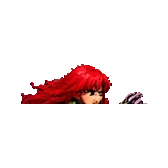
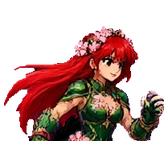
Hana: visual reformulado substitui o antigo
Folhas novas (Hana reformulada.jpg + hana rrefortmulada 2.jpg, 16
figuras, toda virada pra direita — zero flips) substituem as antigas
(Hana sprites.jpg de 28 figuras com linhas grudadas). Mapeamento novo:
- folha1: idle/andar/pulo/soco | agachar/chute/tiro/block
- folha2: andar/idle/pulo-ar/vitoria | garra/agachar/KO-deitado/block
- idle e walk alternam 2 quadros (animada), punch mistura soco+garra,
  block alterna as duas guardas, KO deitado real
Atlas de habilidades mantido (o dono mandou so poses).

Verificacao: audit das 15 poses ALL OK, ancoragem OK nas 60 celulas,
em jogo completa/limpa/uma figura/pe no chao (medido por pixel),
kit revalidado (H3 puxa pra 78px, ult cura/buff sem dano).
Cache-buster: v16-odette -> v16b-hana.
Testes: combat/v7/v10/v11/online-server/sprite_audit verdes.

diff --git a/index.html b/index.html
@@ -22,9 +22,9 @@
     })().catch((error) => console.warn('Cache cleanup failed:', error));
   </script>
   <link rel="icon" type="image/png" href="assets/share/favicon.png" />
-  <link rel="stylesheet" href="css/style.css?v=v16-odette" />
-  <link rel="stylesheet" href="css/account.css?v=v16-odette" />
-  <link rel="stylesheet" href="css/mobile.css?v=v16-odette" />
+  <link rel="stylesheet" href="css/style.css?v=v16b-hana" />
+  <link rel="stylesheet" href="css/account.css?v=v16b-hana" />
+  <link rel="stylesheet" href="css/mobile.css?v=v16b-hana" />
 </head>
 <body>
   <div id="loader" role="status" aria-live="polite">
@@ -367,7 +367,7 @@
     </div>
   </div>
 
-  <script src="assets/sprites/layout.js?v=v16-odette"></script>
+  <script src="assets/sprites/layout.js?v=v16b-hana"></script>
   <script>
     /* Blindagem contra layout.js velho em cache: os arquivos de dados
        (fighters-v7..v11) escrevem em SPRITE_LAYOUT.files / .perFighter,
@@ -391,54 +391,54 @@
       }
     })();
   </script>
-  <script src="assets/stages/sheets.js?v=v16-odette"></script>
-  <script src="assets/maps/anim.js?v=v16-odette"></script>
-  <script src="js/core/profile.js?v=v16-odette"></script>
-  <script src="js/config/firebase-config.js?v=v16-odette"></script>
-  <script src="js/core/cloud.js?v=v16-odette"></script>
-  <script src="js/config/supabase-config.js?v=v16-odette"></script>
+  <script src="assets/stages/sheets.js?v=v16b-hana"></script>
+  <script src="assets/maps/anim.js?v=v16b-hana"></script>
+  <script src="js/core/profile.js?v=v16b-hana"></script>
+  <script src="js/config/firebase-config.js?v=v16b-hana"></script>
+  <script src="js/core/cloud.js?v=v16b-hana"></script>
+  <script src="js/config/supabase-config.js?v=v16b-hana"></script>
   <script src="js/vendor/supabase-2.118.0.js"></script>
-  <script src="js/core/supabase-cloud.js?v=v16-odette"></script>
-  <script src="js/data/fighters.js?v=v16-odette"></script>
-  <script src="js/data/fighters-v10.js?v=v16-odette"></script>
-  <script src="js/data/fighters-v11.js?v=v16-odette"></script>
-  <script src="js/data/powers.js?v=v16-odette"></script>
-  <script src="js/data/powers-turbo.js?v=v16-odette"></script>
-  <script src="js/data/powers-v4.js?v=v16-odette"></script>
-  <script src="js/data/powers-v5.js?v=v16-odette"></script>
-  <script src="js/data/powers-v6.js?v=v16-odette"></script>
-  <script src="js/data/powers-balance-v6.js?v=v16-odette"></script>
-  <script src="js/data/powers-v7.js?v=v16-odette"></script>
-  <script src="js/data/powers-v8.js?v=v16-odette"></script>
-  <script src="js/data/powers-v9.js?v=v16-odette"></script>
-  <script src="js/data/powers-v10.js?v=v16-odette"></script>
-  <script src="js/data/powers-v11.js?v=v16-odette"></script>
-    <script src="js/data/fighters-v12.js?v=v16-odette"></script>
-    <script src="js/data/fighters-v13.js?v=v16-odette"></script>
-    <script src="js/data/fighters-v14.js?v=v16-odette"></script>
-    <script src="js/data/fighters-v15.js?v=v16-odette"></script>
-    <script src="js/data/fighters-v16.js?v=v16-odette"></script>
-  <script src="js/data/pets.js?v=v16-odette"></script>
-  <script src="js/data/stages.js?v=v16-odette"></script>
-  <script src="js/engine/sprites.js?v=v16-odette"></script>
-  <script src="js/engine/fx.js?v=v16-odette"></script>
-  <script src="js/engine/audio.js?v=v16-odette"></script>
-  <script src="js/engine/input.js?v=v16-odette"></script>
-  <script src="js/ui/viewport.js?v=v16-odette"></script>
-  <script src="js/engine/projectile.js?v=v16-odette"></script>
-  <script src="js/engine/fighter.js?v=v16-odette"></script>
-  <script src="js/engine/weather.js?v=v16-odette"></script>
-  <script src="js/engine/mechanics.js?v=v16-odette"></script>
-  <script src="js/engine/stage.js?v=v16-odette"></script>
-  <script src="js/engine/ai.js?v=v16-odette"></script>
-  <script src="js/engine/game.js?v=v16-odette"></script>
+  <script src="js/core/supabase-cloud.js?v=v16b-hana"></script>
+  <script src="js/data/fighters.js?v=v16b-hana"></script>
+  <script src="js/data/fighters-v10.js?v=v16b-hana"></script>
+  <script src="js/data/fighters-v11.js?v=v16b-hana"></script>
+  <script src="js/data/powers.js?v=v16b-hana"></script>
+  <script src="js/data/powers-turbo.js?v=v16b-hana"></script>
+  <script src="js/data/powers-v4.js?v=v16b-hana"></script>
+  <script src="js/data/powers-v5.js?v=v16b-hana"></script>
+  <script src="js/data/powers-v6.js?v=v16b-hana"></script>
+  <script src="js/data/powers-balance-v6.js?v=v16b-hana"></script>
+  <script src="js/data/powers-v7.js?v=v16b-hana"></script>
+  <script src="js/data/powers-v8.js?v=v16b-hana"></script>
+  <script src="js/data/powers-v9.js?v=v16b-hana"></script>
+  <script src="js/data/powers-v10.js?v=v16b-hana"></script>
+  <script src="js/data/powers-v11.js?v=v16b-hana"></script>
+    <script src="js/data/fighters-v12.js?v=v16b-hana"></script>
+    <script src="js/data/fighters-v13.js?v=v16b-hana"></script>
+    <script src="js/data/fighters-v14.js?v=v16b-hana"></script>
+    <script src="js/data/fighters-v15.js?v=v16b-hana"></script>
+    <script src="js/data/fighters-v16.js?v=v16b-hana"></script>
+  <script src="js/data/pets.js?v=v16b-hana"></script>
+  <script src="js/data/stages.js?v=v16b-hana"></script>
+  <script src="js/engine/sprites.js?v=v16b-hana"></script>
+  <script src="js/engine/fx.js?v=v16b-hana"></script>
+  <script src="js/engine/audio.js?v=v16b-hana"></script>
+  <script src="js/engine/input.js?v=v16b-hana"></script>
+  <script src="js/ui/viewport.js?v=v16b-hana"></script>
+  <script src="js/engine/projectile.js?v=v16b-hana"></script>
+  <script src="js/engine/fighter.js?v=v16b-hana"></script>
+  <script src="js/engine/weather.js?v=v16b-hana"></script>
+  <script src="js/engine/mechanics.js?v=v16b-hana"></script>
+  <script src="js/engine/stage.js?v=v16b-hana"></script>
+  <script src="js/engine/ai.js?v=v16b-hana"></script>
+  <script src="js/engine/game.js?v=v16b-hana"></script>
   <script src="js/vendor/peerjs.min.js"></script>
-  <script src="js/net/room-core.js?v=v16-odette"></script>
-  <script src="js/net/online.js?v=v16-odette"></script>
-  <script src="js/ui/hud.js?v=v16-odette"></script>
-  <script src="js/ui/ui.js?v=v16-odette"></script>
-  <script src="js/ui/account.js?v=v16-odette"></script>
-  <script src="js/main.js?v=v16-odette"></script>
-  <script src="js/net/tournament.js?v=v16-odette"></script>
+  <script src="js/net/room-core.js?v=v16b-hana"></script>
+  <script src="js/net/online.js?v=v16b-hana"></script>
+  <script src="js/ui/hud.js?v=v16b-hana"></script>
+  <script src="js/ui/ui.js?v=v16b-hana"></script>
+  <script src="js/ui/account.js?v=v16b-hana"></script>
+  <script src="js/main.js?v=v16b-hana"></script>
+  <script src="js/net/tournament.js?v=v16b-hana"></script>
 </body>
 </html>

diff --git a/js/engine/sprites.js b/js/engine/sprites.js
@@ -26,8 +26,8 @@ const SpriteGen = {
   url(id) {
     const src = (SPRITE_LAYOUT.files || {})[id] || 'assets/sprites/' + id + '.png';
     // v=... serve pra invalidar cache: SEMPRE bump quando o PNG mudar.
-    // v16-odette: Odette no elenco (38) + boneco estatico no treino (grika/ash/rin/katya fora) + pulo no ar.
-    return src + '?v=v16-odette';
+    // v16b-hana: Hana com visual reformulado (grika/ash/rin/katya fora) + pulo no ar.
+    return src + '?v=v16b-hana';
   },
   faceUrl(id) {
     return `assets/ui/face-${id}.png?v=spritefix-4x15b`;

diff --git a/js/engine/fx.js b/js/engine/fx.js
@@ -23,7 +23,7 @@ const ART_SHEETS = {
 const Art = {
   images: {},
   url(src) {
-    return src + '?v=v16-odette';
+    return src + '?v=v16b-hana';
   },
   load() {
     Object.entries(ART_SHEETS).forEach(([key, s]) => {

diff --git a/tools/integrate_fighter.py b/tools/integrate_fighter.py
@@ -185,24 +185,25 @@ def place(sheet, fig, target_h, foot_y, col, pose_i, dx=0, flip=False):
 
 
 # (ci, ri, flip) por frame — None repete o anterior
-# Hana animada: consenso das classificacoes full-res + detector de cabelo.
-# idle alterna 2 quadros, walk 3, garras 2 — ela se mexe como os outros.
+# Hana REFORMULADA (visual novo): folha1 (si=0: idle/andar/pulo/soco |
+# agachar/chute/tiro/block) folha2 (si=1: andar/idle/pulo-ar/vitoria |
+# garra/agachar/KO-deitado/block). Toda virada pra direita, sem flips.
 HANA_POSES = {
-    'idle':    ([(0, 1, False), (1, 1, False), (0, 1, False), (1, 1, False)], 195, BASE),
-    'walk':    ([(1, 0, False), (2, 0, False), (1, 1, False), (2, 0, False)], 190, BASE),
-    'jump':    ([(1, 2, True)] * 4, 165, AIR),
-    'crouch':  ([(3, 2, True)] * 4, 125, BASE),
-    'punch':   ([(3, 0, False), (0, 0, False), (3, 0, False), (0, 0, False)], 175, BASE),
-    'kick':    ([(0, 2, False)] * 4, 165, BASE),
-    'cpunch':  ([(0, 0, False)] * 4, 130, BASE),
-    'ckick':   ([(0, 6, False)] * 4, 150, BASE),
-    'jpunch':  ([(3, 0, False)] * 4, 170, AIR),
-    'jkick':   ([(0, 2, False)] * 4, 160, AIR),
-    'special': ([(2, 1, False), (3, 1, True), (2, 6, False), (2, 5, False)], 195, BASE),
-    'hit':     ([(2, 2, False)] * 4, 185, BASE),
-    'block':   ([(1, 1, False)] * 4, 190, BASE),
-    'ko':      ([(2, 2, False)] * 4, 76, BASE),
-    'win':     ([(3, 5, True)] * 4, 195, BASE),
+    'idle':    ([(0, 0, 0, False), (1, 1, 0, False), (0, 0, 0, False), (1, 1, 0, False)], 195, BASE),
+    'walk':    ([(0, 1, 0, False), (1, 0, 0, False), (0, 1, 0, False), (1, 0, 0, False)], 190, BASE),
+    'jump':    ([(0, 2, 0, False), (1, 2, 0, False), (0, 2, 0, False), (1, 2, 0, False)], 165, AIR),
+    'crouch':  ([(0, 0, 1, False), (1, 1, 1, False), (0, 0, 1, False), (1, 1, 1, False)], 125, BASE),
+    'punch':   ([(0, 3, 0, False), (1, 0, 1, False), (0, 3, 0, False), (1, 0, 1, False)], 175, BASE),
+    'kick':    ([(0, 1, 1, False)] * 4, 165, BASE),
+    'cpunch':  ([(0, 0, 1, False)] * 4, 130, BASE),
+    'ckick':   ([(1, 1, 1, False)] * 4, 150, BASE),
+    'jpunch':  ([(0, 3, 0, False)] * 4, 170, AIR),
+    'jkick':   ([(0, 1, 1, False)] * 4, 160, AIR),
+    'special': ([(0, 2, 1, False)] * 4, 195, BASE),
+    'hit':     ([(1, 3, 1, False)] * 4, 185, BASE),
+    'block':   ([(0, 3, 1, False), (1, 3, 1, False), (0, 3, 1, False), (1, 3, 1, False)], 190, BASE),
+    'ko':      ([(1, 2, 1, False)] * 4, 76, BASE),
+    'win':     ([(1, 3, 0, False)] * 4, 195, BASE),
 }
 
 # Ciber com mais sprites da folha: idle/walk alternam 2 quadros, punch/kick
@@ -391,15 +392,10 @@ FIGHTERS = {
         'ui_cell': (0, 0, 0, False),
     },
     'hana': {
-        'sheet': 'Hana sprites.jpg',
+        'sheets': ['Hana reformulada.jpg', 'hana rrefortmulada 2.jpg'],
         'abilities': 'hana abilidades.jpg',
-        # grid forcado da folha de habilidades (deteccao automatica perdia a linha da sakura)
-        'ab_rows': [(14, 168), (189, 327), (350, 477), (499, 649), (669, 876)],
-        'ab_cols': [(88, 221), (348, 502), (598, 802), (885, 1118)],
         'poses': HANA_POSES,
-        'ui_cell': (0, 1, False),
-        # primeira banda da projecao (11-269) sao DUAS linhas grudadas: split em 135
-        'row_bands': [(11, 135), (135, 269), (276, 388), (396, 507), (516, 627), (635, 750), (761, 879)],
+        'ui_cell': (0, 0, 0, False),
     },
     'cyber-psicopata': {
         'sheet': 'ciber-psicopata sprites.jpg',
